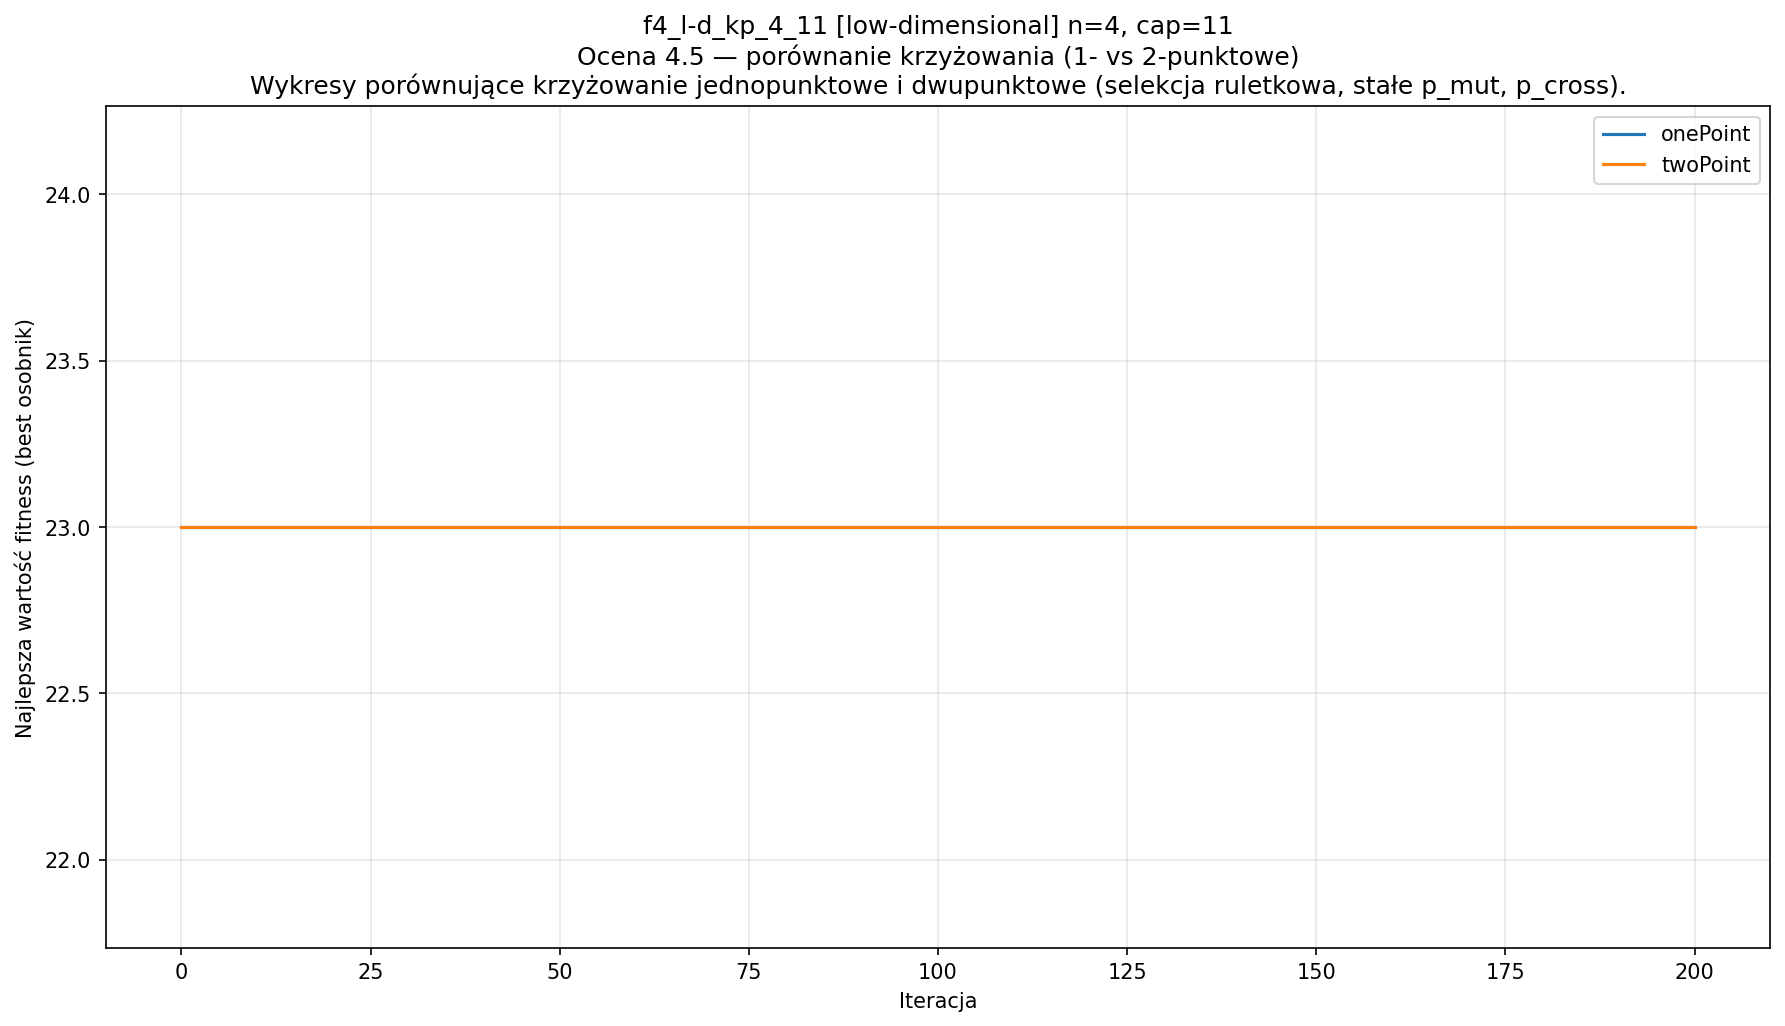
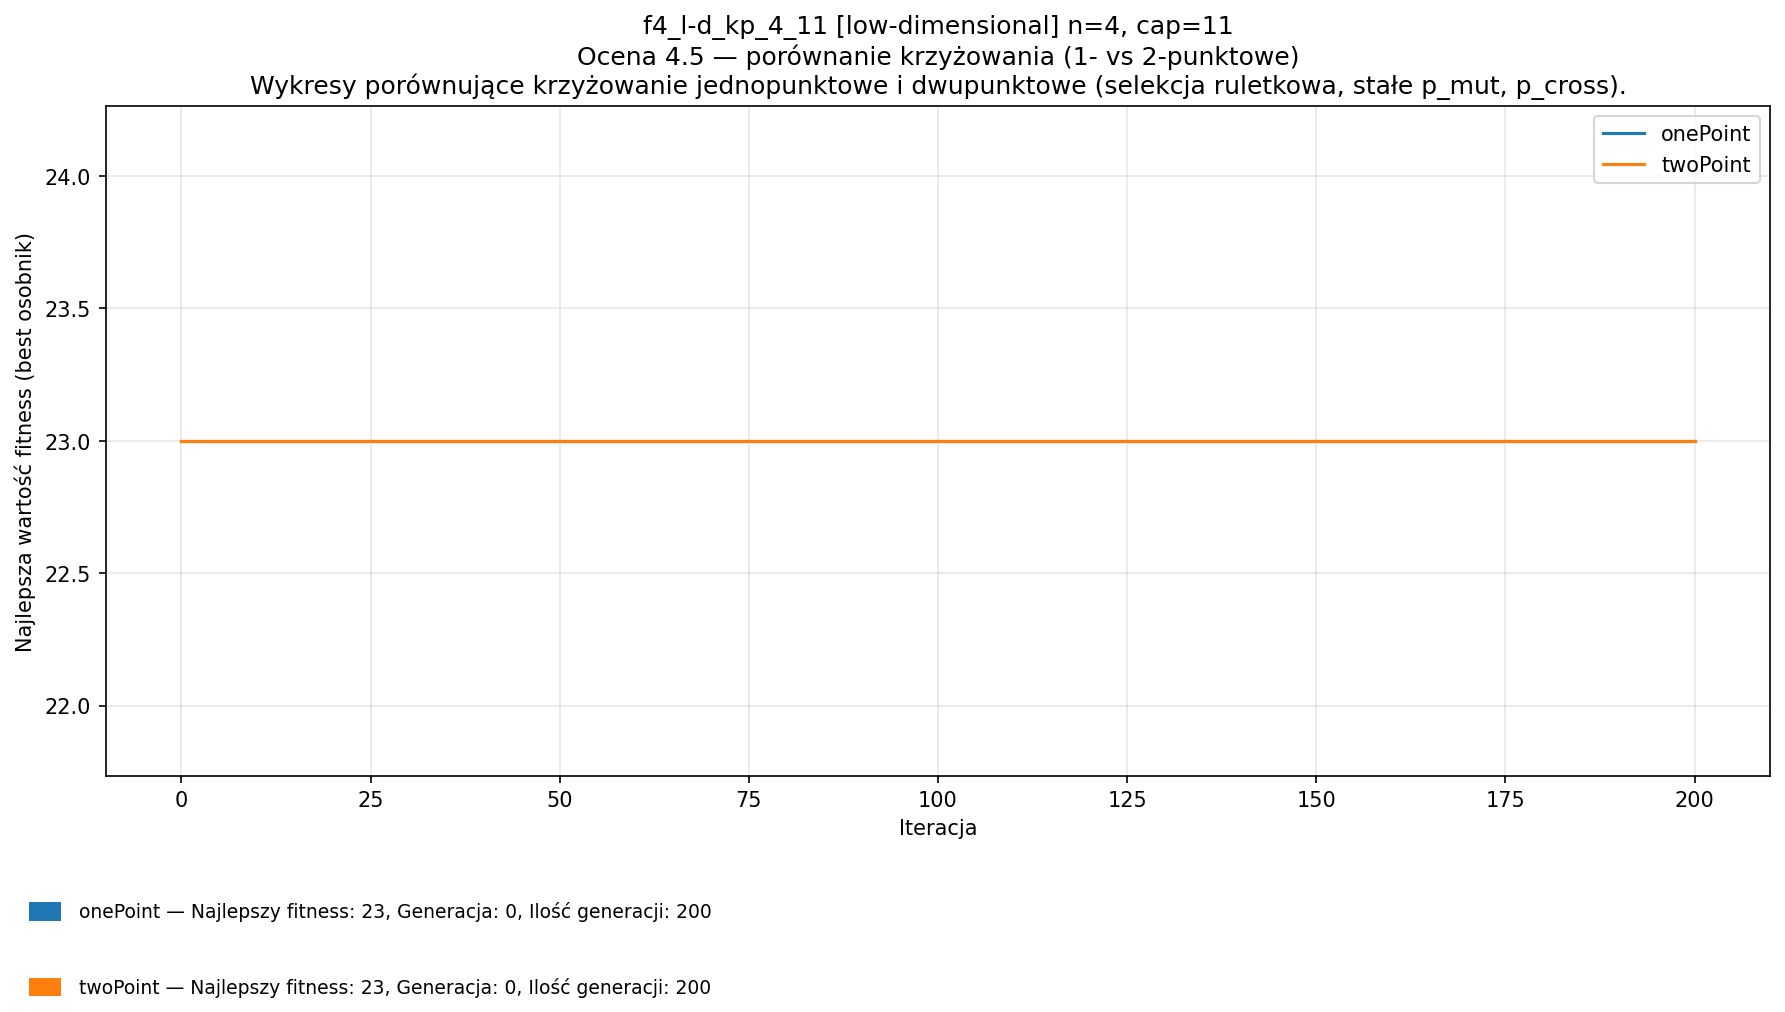
improved charts generator

diff --git a/apps/chart-generator/plots.py b/apps/chart-generator/plots.py
@@ -1,47 +1,10 @@
-#!/usr/bin/env python3
-# -*- coding: utf-8 -*-
 """
+Użycie:
 .venv\Scripts\activate
 pip install matplotlib
 python plots.py --in ../../results --out ./plots
 
-plots.py — generator wykresów GA (knapsack) z plików JSON do PNG/PDF (matplotlib)
-
-Założenia (zgodne z Twoim JSON):
-- w katalogu wejściowym są pliki *.json
-- każdy JSON ma strukturę:
-  {
-    "dataset": { "baseName": ..., "category": ..., "itemCount": ..., "capacity": ... },
-    "gaDefaults": { "numGenerations": ... , ... },
-    "experiments": [
-      {
-        "group": "mutation_crossover_grid_3.5" | "selection_comparison_4.5" | "crossover_comparison_4.5" | "selection_comparison_5.0" | ...
-        "description": "...",
-        "baseParameters": {...} (opcjonalnie),
-        "runs": [
-          {
-            "id": "...", (opcjonalnie)
-            "selection": "roulette"|"ranking"|"tournament"|... (opcjonalnie)
-            "crossover": "onePoint"|"twoPoint"|... (opcjonalnie)
-            "mutationRate": 0.01 (opcjonalnie)
-            "crossoverRate": 0.8 (opcjonalnie)
-            "bestFitnessHistory": [ ... liczby ... ]  (WYMAGANE)
-          }
-        ]
-      }
-    ]
-  }
-
-Użycie:
-  python plots.py
-  python plots.py --in ./results_json --out ./plots --format png
-  python plots.py --in . --out ./plots --format both --recursive
-
-Wynik:
-- dla każdego JSON: osobne pliki wykresów w /plots
-- osobny wykres na "group" (3.5 / 4.5 / 5.0), czyli spełnia wymagania porównań
 """
-
 from __future__ import annotations
 
 import argparse
@@ -54,6 +17,7 @@ from pathlib import Path
 from typing import Any, Dict, List, Optional, Tuple
 
 import matplotlib.pyplot as plt
+from matplotlib.patches import Rectangle
 
 
 # ----------------------------
@@ -79,6 +43,72 @@ def ensure_dir(path: Path) -> None:
 
 def is_number(x: Any) -> bool:
     return isinstance(x, (int, float)) and not (isinstance(x, float) and (math.isnan(x) or math.isinf(x)))
+
+def fmt_num(v: float) -> str:
+    if abs(v - round(v)) < 1e-9:
+        return str(int(round(v)))
+    return f"{v:g}"
+
+def compute_series_stats(y: List[float], declared_num_generations: Optional[int]) -> Tuple[float, int, int]:
+    best = max(y)
+    idx_best = next((i for i, val in enumerate(y) if val == best), 0)
+
+    iterations_executed = max(0, len(y) - 1)
+    generation_best = idx_best
+
+    return best, generation_best, iterations_executed
+
+
+def add_stats_block(
+    fig: Any,
+    series_lines: List[Tuple["Series", Any]],
+    reserved_bottom: float,
+    declared_num_generations: Optional[int],
+) -> List[Any]:
+    n = len(series_lines)
+    if n == 0:
+        return []
+
+    y_pad = 0.01
+    y0 = y_pad
+    y1 = max(y0 + 0.02, reserved_bottom - y_pad)
+
+    avail = max(0.02, y1 - y0)
+    row_h = avail / n
+
+    sq = min(0.018, row_h * 0.7)
+    x_sq = 0.02
+    x_text = x_sq + sq + 0.01
+    fs = 9 if n <= 8 else 8
+
+    artists: List[Any] = []
+
+    for idx, (s, line) in enumerate(series_lines):
+        y_center = y1 - (idx + 0.5) * row_h
+        y_sq = y_center - sq / 2
+
+        rect = Rectangle(
+            (x_sq, y_sq),
+            sq,
+            sq,
+            transform=fig.transFigure,
+            facecolor=line.get_color(),
+            edgecolor="none",
+        )
+        fig.patches.append(rect)
+        artists.append(rect)
+
+        best, gen_best, gens = compute_series_stats(s.y, declared_num_generations)
+        text = (
+            f"{s.label} — "
+            f"Najlepszy fitness: {fmt_num(best)}, "
+            f"Generacja: {gen_best}, "
+            f"Ilość generacji: {gens}"
+        )
+        t = fig.text(x_text, y_center, text, ha="left", va="center", fontsize=fs)
+        artists.append(t)
+
+    return artists
 
 
 # ----------------------------
@@ -111,7 +141,6 @@ GROUP_TITLES = {
     "selection_comparison_5.0": "Ocena 5.0 — porównanie selekcji (rankingowa/ruletkowa/turniejowa)",
 }
 
-# Kolejność rysowania „znanych” grup (żeby output był spójny)
 GROUP_ORDER = [
     "mutation_crossover_grid_3.5",
     "selection_comparison_4.5",
@@ -132,7 +161,6 @@ def extract_dataset_meta(data: Dict[str, Any]) -> DatasetMeta:
 
     num_generations = gd.get("numGenerations", gd.get("maxGenerations", None))
 
-    # Normalize ints if possible
     try:
         if item_count is not None:
             item_count = int(item_count)
@@ -161,19 +189,14 @@ def extract_dataset_meta(data: Dict[str, Any]) -> DatasetMeta:
 
 
 def build_run_label(group: str, run: Dict[str, Any]) -> str:
-    """
-    Tworzy czytelną etykietę legendy na podstawie typu wykresu (group) i pól run.
-    """
     selection = run.get("selection")
     crossover = run.get("crossover")
     mut = run.get("mutationRate")
     cross = run.get("crossoverRate")
     rid = run.get("id")
 
-    # Helper do krótkiego formatowania
     def fmt_rate(x: Any) -> Optional[str]:
         if is_number(x):
-            # 0.01 -> 0.01, 0.005 -> 0.005
             return f"{float(x):g}"
         return None
 
@@ -186,7 +209,6 @@ def build_run_label(group: str, run: Dict[str, Any]) -> str:
             parts.append(f"mut={mut_s}")
         if cross_s is not None:
             parts.append(f"cross={cross_s}")
-        # jeśli w JSON dodatkowo jest selection/crossover, można dopisać (nie przeszkadza)
         if selection:
             parts.append(str(selection))
         if crossover:
@@ -196,19 +218,15 @@ def build_run_label(group: str, run: Dict[str, Any]) -> str:
         return str(rid) if rid else "run"
 
     if group in ("selection_comparison_4.5", "selection_comparison_5.0"):
-        # Tu zależy nam przede wszystkim na nazwie selekcji
         if selection:
             return str(selection)
-        # fallback: id
         return str(rid) if rid else "run"
 
     if group == "crossover_comparison_4.5":
-        # Tu zależy nam przede wszystkim na typie krzyżowania
         if crossover:
             return str(crossover)
         return str(rid) if rid else "run"
 
-    # Domyślnie: sensowne info, które jest
     parts = []
     if selection:
         parts.append(f"sel={selection}")
@@ -231,16 +249,13 @@ def extract_series_from_experiment(exp: Dict[str, Any]) -> List[Series]:
     for run in runs:
         y = run.get("bestFitnessHistory")
         if not isinstance(y, list) or len(y) == 0:
-            # pomijamy serie bez danych
             continue
 
-        # filtruj nienumeryczne (na wypadek błędów eksportu)
         y_clean: List[float] = []
         for v in y:
             if is_number(v):
                 y_clean.append(float(v))
             else:
-                # jeśli trafi się None/string, utnij serię do tego miejsca (bezpieczniej niż zgadywać)
                 break
 
         if len(y_clean) == 0:
@@ -249,9 +264,7 @@ def extract_series_from_experiment(exp: Dict[str, Any]) -> List[Series]:
         label = build_run_label(group, run)
         series_list.append(Series(label=label, y=y_clean))
 
-    # Sortowanie serii dla czytelności legendy
     if group == "mutation_crossover_grid_3.5":
-        # sort: po mutationRate, potem crossoverRate jeśli da się wydobyć z label
         def sort_key(s: Series) -> Tuple[float, float, str]:
             mut = float("inf")
             cross = float("inf")
@@ -302,39 +315,53 @@ def plot_experiment(
     if not series_list:
         return None
 
-    plt.figure(figsize=(12, 7))
+    declared_num_generations: Optional[int] = meta.num_generations
+    bp = exp.get("baseParameters", {}) or {}
+    if is_number(bp.get("numGenerations")):
+        try:
+            declared_num_generations = int(bp.get("numGenerations"))
+        except Exception:
+            pass
 
-    # rysowanie serii
+    fig, ax = plt.subplots(figsize=(12, 7))
+
+    series_lines: List[Tuple[Series, Any]] = []
     for s in series_list:
         x = list(range(len(s.y)))
-        plt.plot(x, s.y, label=s.label)
+        (line,) = ax.plot(x, s.y, label=s.label)
+        series_lines.append((s, line))
 
-    plt.title(make_title(meta, group, exp))
-    plt.xlabel("Iteracja")
-    plt.ylabel("Najlepsza wartość fitness (best osobnik)")
+    ax.set_title(make_title(meta, group, exp))
+    ax.set_xlabel("Iteracja")
+    ax.set_ylabel("Najlepsza wartość fitness (best osobnik)")
+    ax.grid(True, alpha=0.3)
 
-    # siatka + legenda
-    plt.grid(True, alpha=0.3)
-
-    # Dla wielu serii (np. 3.5 grid) przydaje się mniejsza legenda
     if len(series_list) <= 8:
-        plt.legend()
+        ax.legend()
     else:
-        plt.legend(fontsize=8, ncol=2)
+        ax.legend(fontsize=8, ncol=2)
 
-    plt.tight_layout()
+    bottom = min(0.48, 0.12 + 0.022 * len(series_lines))
+    fig.tight_layout(rect=(0, bottom, 1, 1))
+
+    extra_artists = add_stats_block(
+        fig,
+        series_lines=series_lines,
+        reserved_bottom=bottom,
+        declared_num_generations=declared_num_generations,
+    )
 
     saved: List[Path] = []
     if out_format in ("png", "both"):
         p = out_path_base.with_suffix(".png")
-        plt.savefig(p, dpi=150, bbox_inches="tight")
+        fig.savefig(p, dpi=150, bbox_inches="tight", bbox_extra_artists=extra_artists)
         saved.append(p)
     if out_format in ("pdf", "both"):
         p = out_path_base.with_suffix(".pdf")
-        plt.savefig(p, bbox_inches="tight")
+        fig.savefig(p, bbox_inches="tight", bbox_extra_artists=extra_artists)
         saved.append(p)
 
-    plt.close()
+    plt.close(fig)
     return saved
 
 
@@ -351,7 +378,6 @@ def find_json_files(in_dir: Path, recursive: bool) -> List[Path]:
 
 
 def pick_experiments_in_order(experiments: List[Dict[str, Any]]) -> List[Dict[str, Any]]:
-    # Najpierw znane grupy wg GROUP_ORDER, potem reszta alfabetycznie
     buckets: Dict[str, List[Dict[str, Any]]] = {}
     for exp in experiments:
         g = str(exp.get("group", "unknown"))
@@ -362,7 +388,6 @@ def pick_experiments_in_order(experiments: List[Dict[str, Any]]) -> List[Dict[st
         for exp in buckets.pop(g, []):
             ordered.append(exp)
 
-    # reszta grup
     for g in sorted(buckets.keys()):
         ordered.extend(buckets[g])
 
@@ -409,7 +434,6 @@ def main() -> int:
         for exp in experiments:
             group = str(exp.get("group", "unknown"))
 
-            # Jeśli nie chcesz rysować nieznanych grup, można wyłączyć:
             if (group not in GROUP_TITLES) and (not args.include_unknown_groups):
                 continue
 
